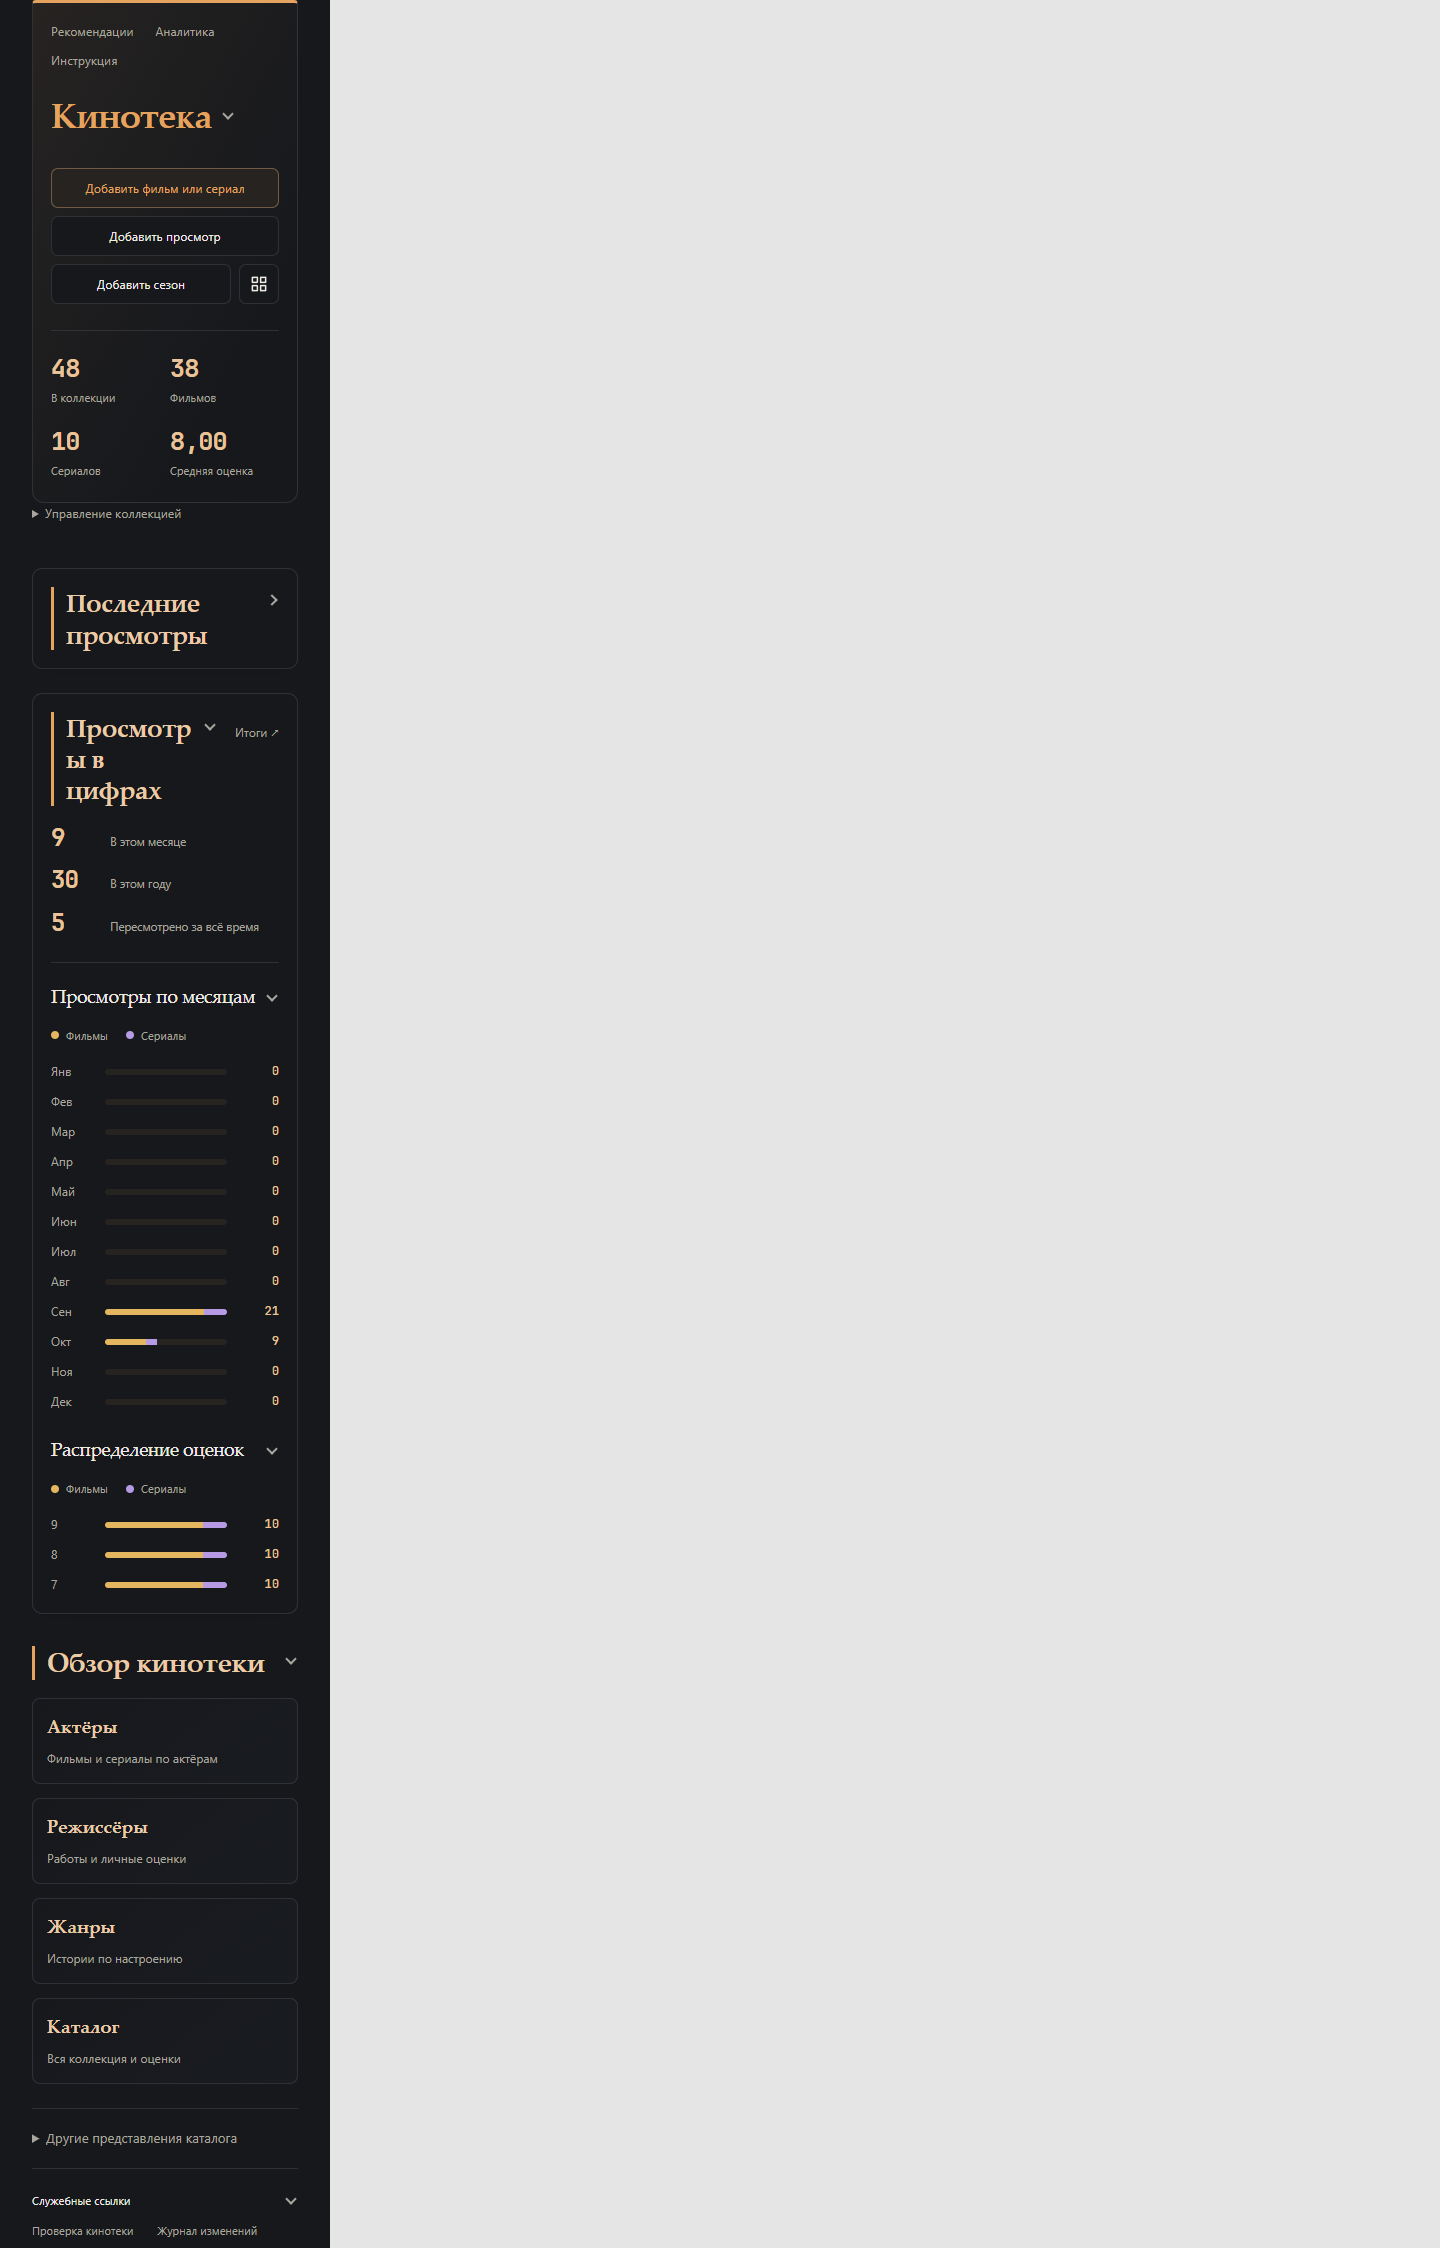
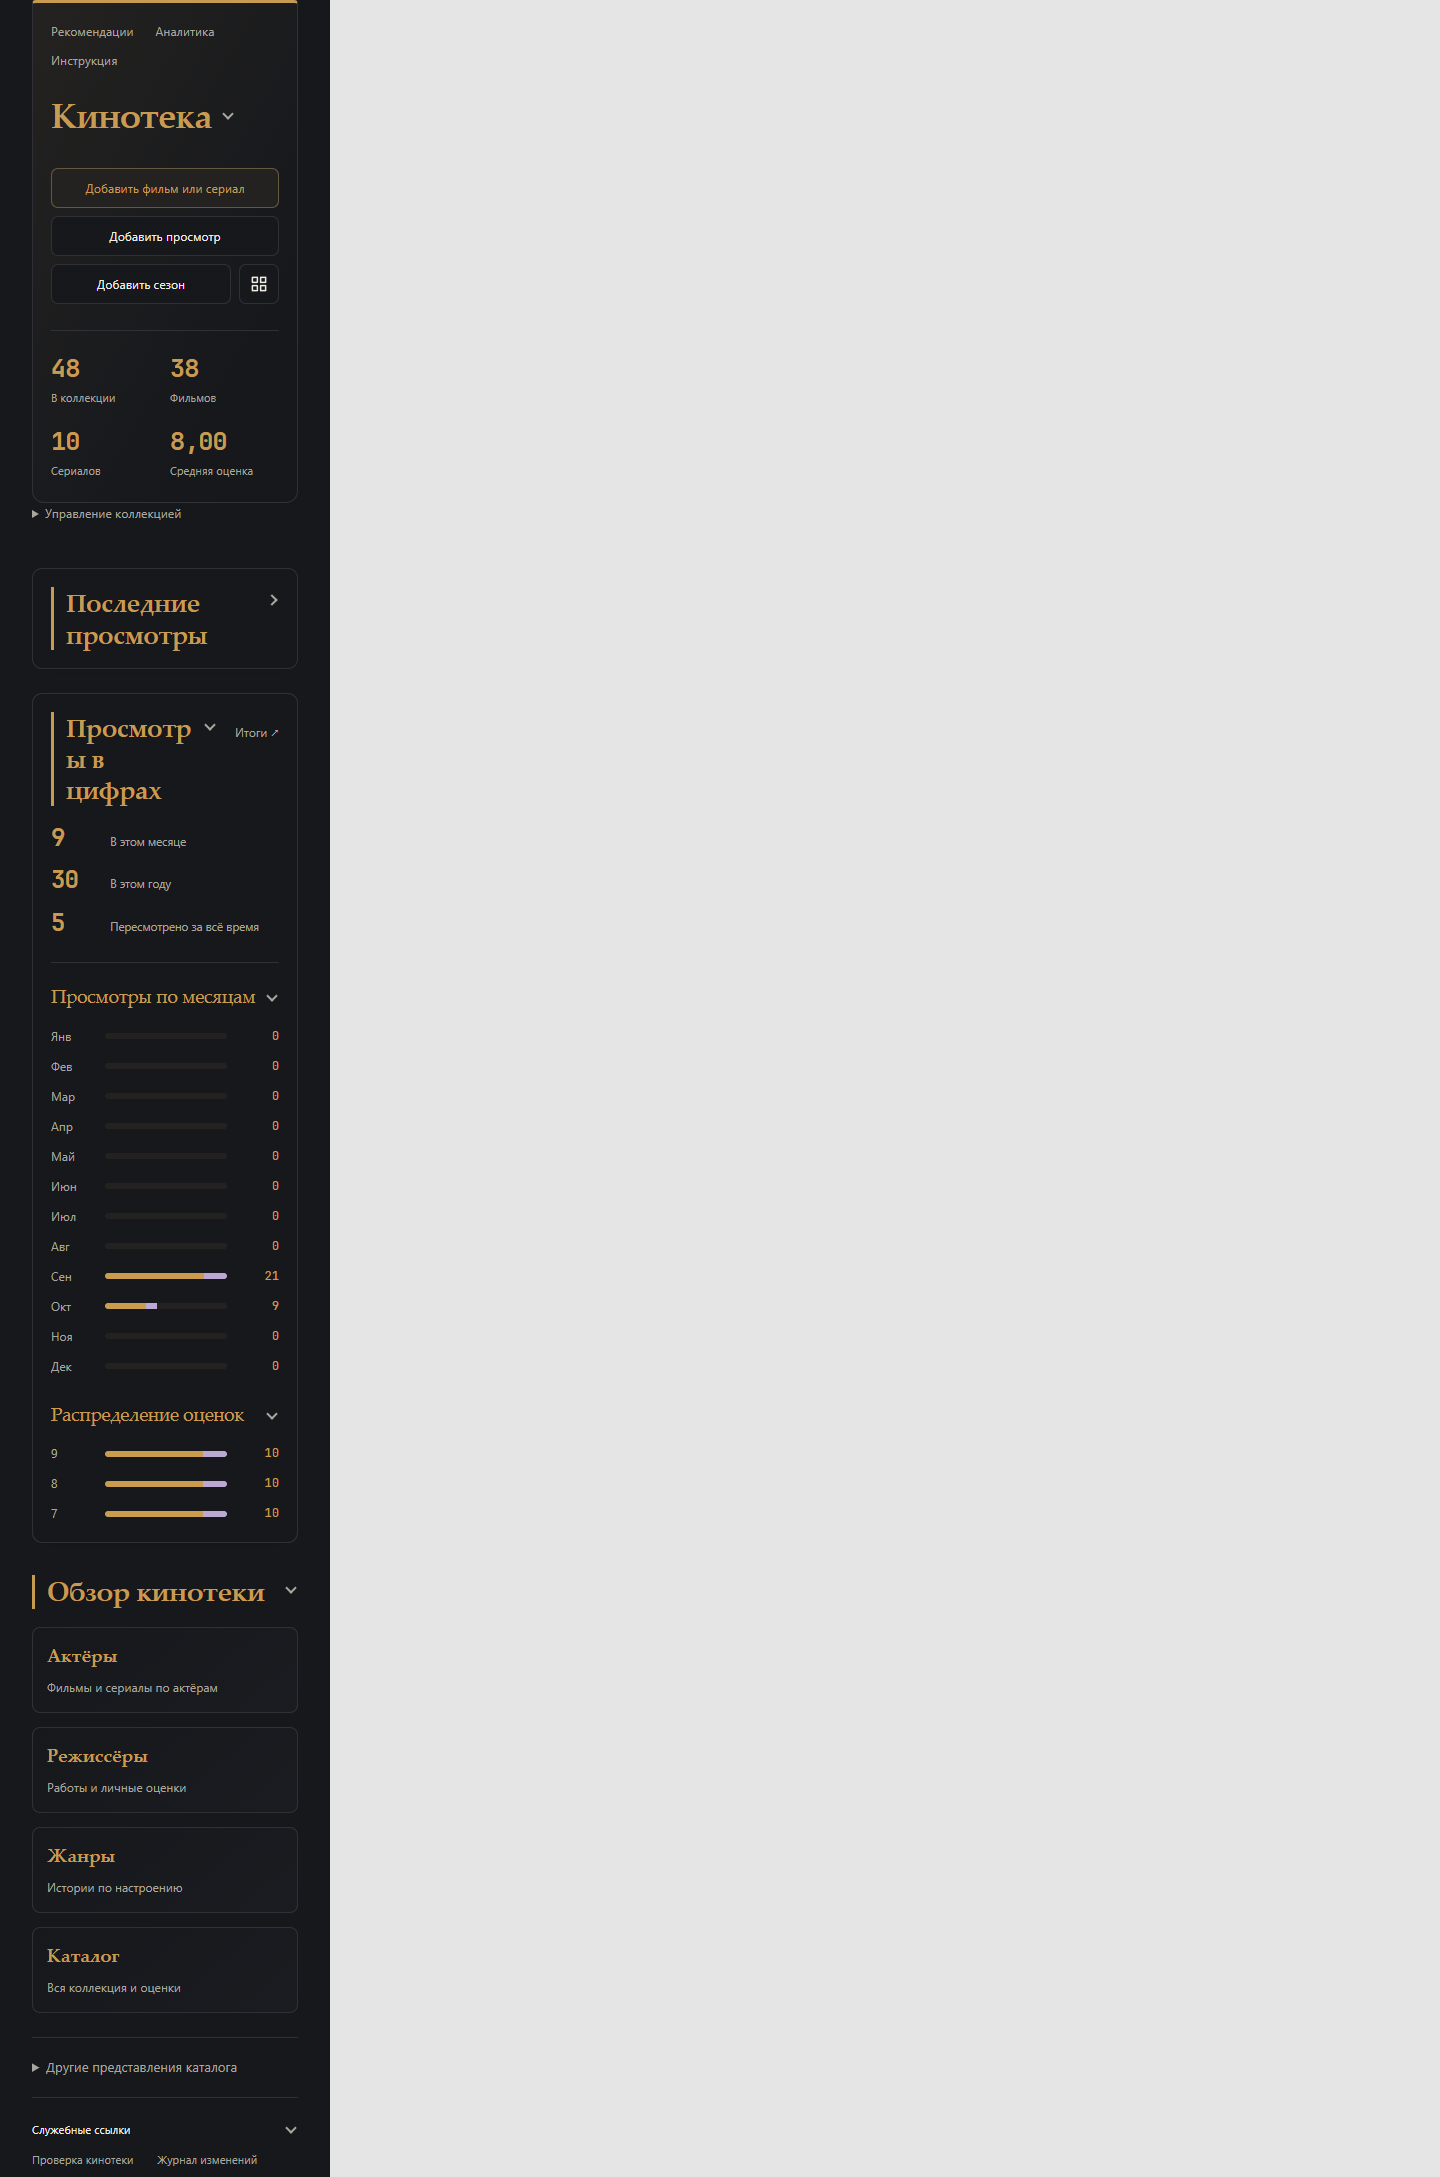
vault backup: 2026-10-09 23:15:16

diff --git a/Кино/_system/kino-home.css b/Кино/_system/kino-home.css
@@ -15,12 +15,12 @@
 }
 .kino-home-ui.kino-home-ui {
     --home-line: color-mix(in srgb,var(--background-modifier-border,#c9c3b9) 70%,transparent);
-    --home-accent: var(--text-accent,#a46830);
+    --home-accent: #c79b51;
     --home-tint: color-mix(in srgb,var(--home-accent) 8%,var(--background-primary));
     --home-serif: "Iowan Old Style","Palatino Linotype","Book Antiqua",Georgia,serif;
     --home-numbers: "JetBrains Mono","Cascadia Mono","Cascadia Code",Consolas,monospace;
-    --home-number-color: color-mix(in srgb,var(--text-normal) 45%,var(--home-accent));
-    --home-heading-color: color-mix(in srgb,var(--text-normal) 55%,var(--home-accent));
+    --home-number-color: var(--home-accent);
+    --home-heading-color: var(--home-accent);
     width: 100%; max-width: 100%; min-width: 0; container: kino-home / inline-size;
 }
 .kino-home-ui.kino-home-ui * { box-sizing: border-box; }
@@ -138,7 +138,7 @@
 /* Statistics panels use the same heading controls as the home sections. */
 .kino-home-ui.kino-home-ui .kino-home-charts { display: grid; grid-template-columns: repeat(2,minmax(0,1fr)); gap: 24px; border-top: 1px solid var(--home-line); padding-top: 20px; }
 .kino-home-ui.kino-home-ui .kino-home-chart { min-width: 0; }
-.kino-home-ui.kino-home-ui .kino-home-chart h3 { margin: 0 0 16px; font: 500 19px/1.4 var(--home-serif) !important; color: var(--text-normal) !important; }
+.kino-home-ui.kino-home-ui .kino-home-chart h3 { margin: 0 0 16px; font: 500 19px/1.4 var(--home-serif) !important; color: var(--home-heading-color) !important; }
 .kino-home-ui.kino-home-ui .kino-home-chart-list { display: grid; gap: 9px; }
 .kino-home-ui.kino-home-ui .kino-home-chart-row { display: grid; grid-template-columns: 42px minmax(0,1fr) 40px; align-items: center; gap: 12px; min-width: 0; font-size: .75em; }
 .kino-home-ui.kino-home-ui .kino-home-chart-label { color: var(--text-muted); overflow-wrap: anywhere; }
@@ -148,7 +148,7 @@
 .kino-home-ui.kino-home-ui .kino-home-chart-body>.kino-home-caption { margin-top: 14px; }
 @container kino-home (max-width: 600px) { .kino-home-ui.kino-home-ui .kino-home-charts { grid-template-columns: minmax(0,1fr); } }
 
-.kino-home-ui.kino-home-ui { --home-movies: #f5a623; --home-serials: #b69ae4; }
+.kino-home-ui.kino-home-ui { --home-movies: #cb9c4d; --home-serials: #baa9d5; }
 .kino-home-ui.kino-home-ui .kino-home-chart-legend { display: flex; flex-wrap: wrap; gap: 8px 18px; margin-bottom: 16px; color: var(--text-muted); font-size: .7em; }
 .kino-home-ui.kino-home-ui .kino-home-chart-key { display: inline-flex; align-items: center; gap: 7px; }
 .kino-home-ui.kino-home-ui .kino-home-chart-dot { display: inline-block; width: 8px; height: 8px; border-radius: 50%; flex: 0 0 8px; }

diff --git a/Кино/_system/kino-statistics.css b/Кино/_system/kino-statistics.css
@@ -15,7 +15,7 @@
 .kino-home-ui.kino-report .kino-report-section:not([open])>summary .kino-home-fold-chevron { transform: rotate(-45deg); }
 .kino-home-ui.kino-report .kino-report-body { margin-top: 20px; min-width: 0; }
 .kino-home-ui.kino-report .kino-report-grid { display: grid; grid-template-columns: repeat(2,minmax(0,1fr)); gap: 28px; }
-.kino-home-ui.kino-report h3 { margin: 0 0 16px; font: 500 18px/1.4 var(--home-serif); color: var(--text-normal); }
+.kino-home-ui.kino-report h3 { margin: 0 0 16px; font: 500 18px/1.4 var(--home-serif); color: var(--home-heading-color); }
 .kino-home-ui.kino-report .kino-report-bar { display: grid; grid-template-columns: 76px minmax(0,1fr) 50px; gap: 12px; align-items: center; width: 100%; min-width: 0; min-height: 30px; margin: 0; padding: 5px 0; border: none; border-radius: 0; box-shadow: none; background: transparent; text-align: left; font-size: .78em; }
 .kino-home-ui.kino-report button.kino-report-bar:hover { background: var(--home-tint); }
 .kino-home-ui.kino-report button.kino-report-bar[aria-pressed=true] { color: var(--home-accent); font-weight: 700; }

diff --git a/Кино/_system/kino_statistics.js b/Кино/_system/kino_statistics.js
@@ -151,8 +151,6 @@ async function render({ dv, app }) {
         for(const [key,label]of [['works','Произведений'],['movies','Фильмов'],['serials','Сериалов'],['events','Просмотров и сезонов'],['repeats','Повторных просмотров'],['average','Средняя оценка']]) {
             const box=el(metrics,'div','kino-home-stat');const n=el(box,'strong');n.dataset.metric=key;el(box,'span','',label);metricNodes.push([key,n]);
         }
-        const legend=el(root,'div','kino-home-chart-legend');
-        for(const [kind,label]of [['movies','Фильмы'],['serials','Сериалы']]){const item=el(legend,'span','kino-home-chart-key');el(item,'span','kino-home-chart-dot is-'+kind);el(item,'span','',label);}
         function section(title,id,open=true) {
             const box=el(root,'details','kino-report-section');box.dataset.section=id;box.open=state.folds[id]??open;
             const summary=el(box,'summary');el(summary,'span','',title);el(summary,'span','kino-home-fold-chevron').setAttribute('aria-hidden','true');

diff --git a/Кино/_system/kino_home.js b/Кино/_system/kino_home.js
@@ -229,12 +229,6 @@ module.exports = async ({ dv, app, obsidian = {} }) => {
             const box = el(charts, 'section', 'kino-home-chart');
             const heading = el(box, 'h3', '', title);
             const body = el(box, 'div', 'kino-home-chart-body');
-            const legend = el(body, 'div', 'kino-home-chart-legend');
-            for (const [kind, label] of [['movies', 'Фильмы'], ['serials', 'Сериалы']]) {
-                const entry = el(legend, 'span', 'kino-home-chart-key');
-                el(entry, 'span', 'kino-home-chart-dot is-' + kind).setAttribute('aria-hidden', 'true');
-                el(entry, 'span', '', label);
-            }
             const list = el(body, 'div', 'kino-home-chart-list'); list.setAttribute('role', 'list');
             foldBlock(box, heading, [body], key, title);
             return { list, body };

diff --git a/Кино/_system/Редизайн — прогресс.md b/Кино/_system/Редизайн — прогресс.md
@@ -5,6 +5,19 @@ obsidianUIMode: preview
 
 Обновлено: 09.10.2026. **Главная кинотеки по образцу Книг завершена.** Основной редизайн, компактные строки, шапка и выбор года тоже завершены; массовые миграции повторно не выполнять. При «продолжай» сначала прочитать этот файл и актуальный запрос.
 
+## Насыщенность текста снижена ещё на 25% — 09.10.2026
+
+- **Запрос завершён:** насыщенность золотого текста снижена на 25% от текущего #dba03d при сохранении оттенка и светлоты HSL. Новый цвет #c79b51. Главная и подробные итоги используют общий акцент. Цвета шкал не изменялись. Обновлена существующая проверка цвета текста.
+
+## Смягчённые цвета и удаление легенды — 09.10.2026
+
+- **Запрос завершён:** насыщенность золотого текста снижена на 25% относительно #f5a623 при сохранении оттенка и светлоты HSL: #dba03d. Насыщенность обеих шкал снижена на 40%: фильмы #cb9c4d, сериалы #baa9d5. Цвета текста и шкал теперь независимы.
+- Легенда «Фильмы / Сериалы» удалена из DOM главной и страницы итогов. Расчёты и разделение шкал по типам сохранены. Обновлены существующие проверки цветов и отсутствия легенды.
+
+## Золотой цвет в заголовках и цифрах — 09.10.2026
+
+- **Запрос завершён:** насыщенный золотой #f5a623 применён также к акцентному тексту главной и подробных итогов: заголовкам, подзаголовкам диаграмм, счётчикам и числам шкал. Цвета используют единые переменные; смешивание золотого с белым у заголовков/цифр убрано. Обычный текст и сиреневый сериалов сохранены. Изменены kino-home.css, kino-statistics.css и существующая проверка цветов главной.
+
 ## Более насыщенный золотой цвет — 09.10.2026
 
 - **Запрос завершён:** общий цвет фильмов в шкалах и легендах главной и подробных итогов изменён с #e4b65f на насыщенный оранжево-золотой #f5a623. Сиреневый цвет сериалов сохранён. Обновлена существующая проверка вычисленного цвета.
